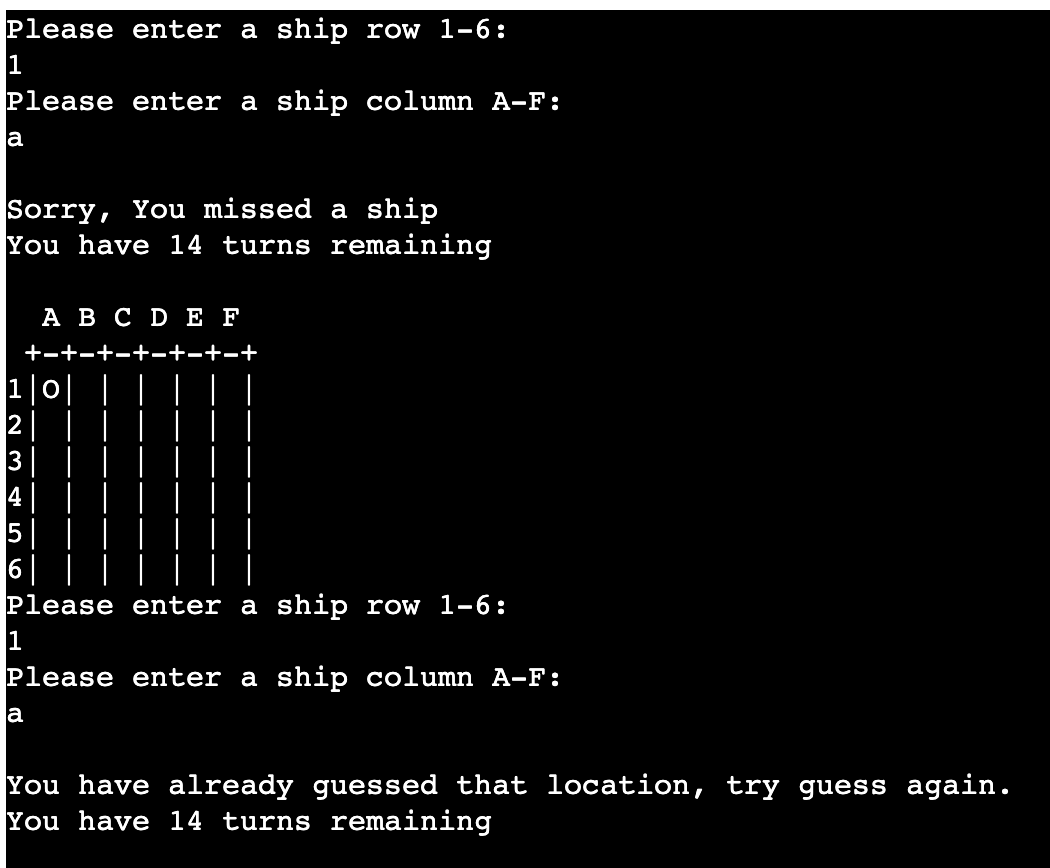
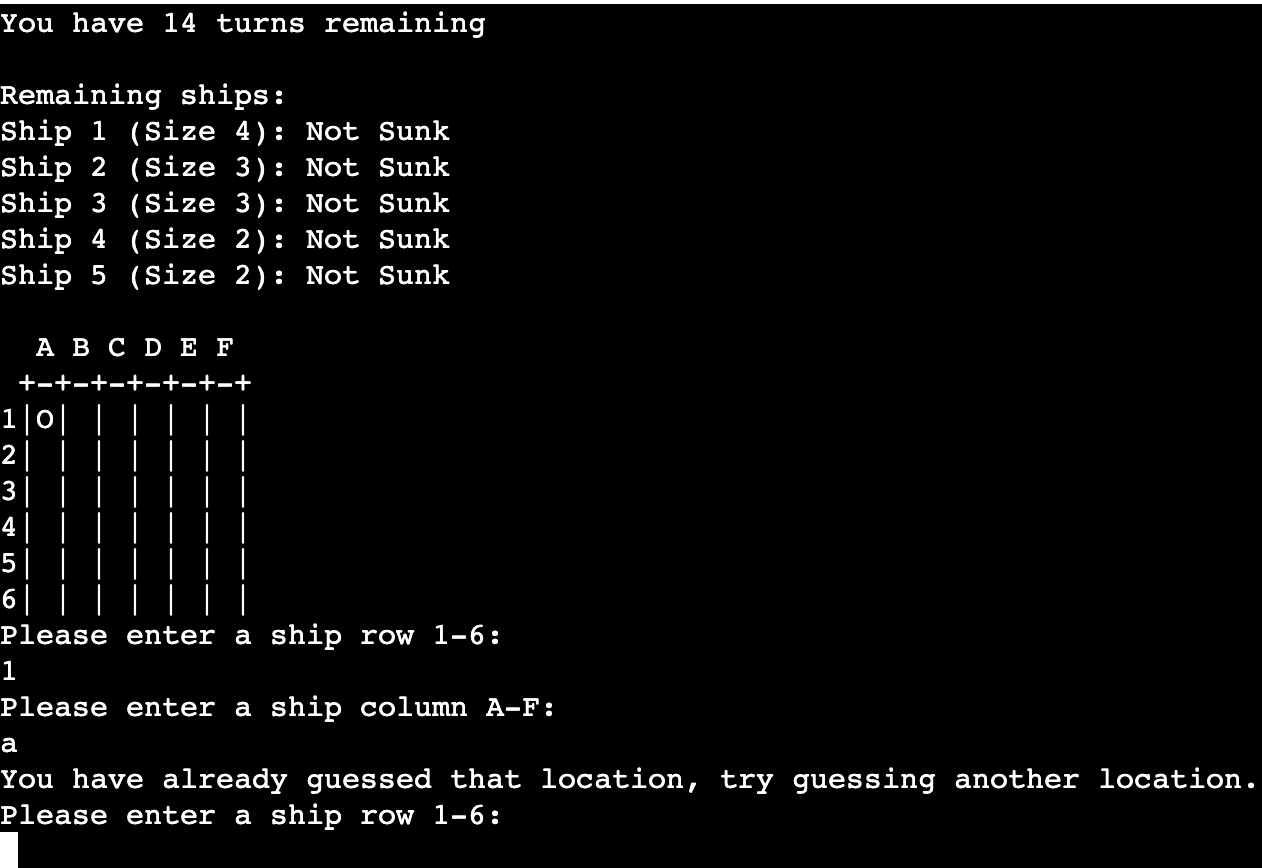
update image for readme and update details.

Changed region(s): [[0.0, 0.0, 1.0, 1.0]]

diff --git a/README.md b/README.md
@@ -24,6 +24,7 @@ Live version of the game avalible on Heroku - <a href="https://p3-battleship-dc-
     - [Welcome Message](#welcome-message)
     - [Game Board](#game-board)
     - [Future Features](#future-features)
+    - [Update Features](#update-features)
   - [Technologies Used](#technologies-used)
   - [Data Model](#data-model)
   - [Testing](#testing)
@@ -72,11 +73,11 @@ The last feature on the welcome screen is asking the user if they are ready to p
 ![Player ready questions](/assets/readme/are-you-ready.png)
 
 ### Game Board
-The game boards are made up of two boards. The game is a single-player game that is against a computer. The computer generates 10 random locations across the 6x6 board that the user has to guess. The value of the battleship locations is listed on the 'HIDDEN_BOARD'. This board is not shown to players as it has all the locations of the battleships for the player to guess. The 'GUESS_BOARD' is what the player sees. This is the board that they use to guess the locations of the battleships.
+The game boards are made up of two boards. The game is a single-player game that is against a computer. The computer generates 5 random locations across the 6x6 board that the user has to guess. The program generates 5 ships with different length value and places them. This also checks to make sure ships do not overlap and that they dont go of the board. The value of the battleship locations is listed on the 'HIDDEN_BOARD'. This board is not shown to players as it has all the locations of the battleships for the player to guess. The 'GUESS_BOARD' is what the player sees. This is the board that they use to guess the locations of the battleships.
 ![GUESS_BOARD](/assets/readme/battleship-board.png)
 
 **Player Guess Choice**
-The player can choose how the game events happen. The player can guess any row or column that they would like. The player can make decisions and choices on their own to play their own game of battleship. They must choose a row between 1-7 and a column between A-F.
+The player can choose how the game events happen. The player can guess any row or column that they would like. The player can make decisions and choices on their own to play their own game of battleship. They must choose a row between 1-6 and a column between A-F.
 ![player choice on the board](/assets/readme/battleship-board.png)
 
 **Player Miss**
@@ -88,11 +89,11 @@ When the user is playing the game there is either a hit or a miss. If the player
 ![player hit](/assets/readme/player-hit.png)
 
 **Player Input & Validation**
-There are different options when the player's input is required. At the start of the game when they are asked if they are ready to play. Then the most common is when asked to input which row and which column. To protect the game, the user must input a row and column within the board. The game checks that the user has entered a number in the range of 1-7 and a column of A-F. If the user tries to input anything out of the range, the game replies to the user and prompts a message that they are not in the range and reminds them. They are then instructed to input the row or column again.
+There are different options when the player's input is required. At the start of the game when they are asked if they are ready to play. Then the most common is when asked to input which row and which column. To protect the game, the user must input a row and column within the board. The game checks that the user has entered a number in the range of 1-6 and a column of A-F. If the user tries to input anything out of the range, the game replies to the user and prompts a message that they are not in the range and reminds them. They are then instructed to input the row or column again.
 ![Player input value](/assets/readme/incorrect-value.png)
 
 **Multiple Guesses**
-If the player guesses a location that they have already guessed. The game will inform them that they have already guessed that location with a prompt. They will not lose a guess and the board will be reshown to allow them to guess again.
+If the player guesses a location that they have already guessed. The game will inform them that they have already guessed that location with a prompt. They will not lose a guess and game will ask them to re-input the row or column.
 ![player guesses multiple times](/assets/readme/multiple-guess.png)
 
 **Player Loss**
@@ -105,12 +106,15 @@ If the player guesses the correct location of the battleships and can get all 10
 
 **Replay Game**
 The last feature of the game is the ability to replay the game. Rather than completing the game and having to refresh the page to run the program again. The player is asked at the end of their game if they win or lose. Whether they would like to play the game again or if they don't.
-![replay game](/assets/readme/play-again.png)
+![replay game](/assets/readme/player-win.png)
 
 ### Future Features
 - Users can choose difficulty or play on larger game boards with increased battleships.
 - Allow the user to have their board with the user selecting where to place their battleship and the computer guessing their location.
-- Have set-sized battleships rather than randomised locations.
+~~- Have set-sized battleships rather than randomised locations.~~
+
+### Update Features
+Project was update from future features. The Game now creates 5 ships in total. A 4 size ship, two 3 size ships and two 2 size ships. This allows the user to hit a shit and if they sink one of the ships, the game notifies them so they can search for the other ships.
 
 ## Technologies Used
 Programming Languages
